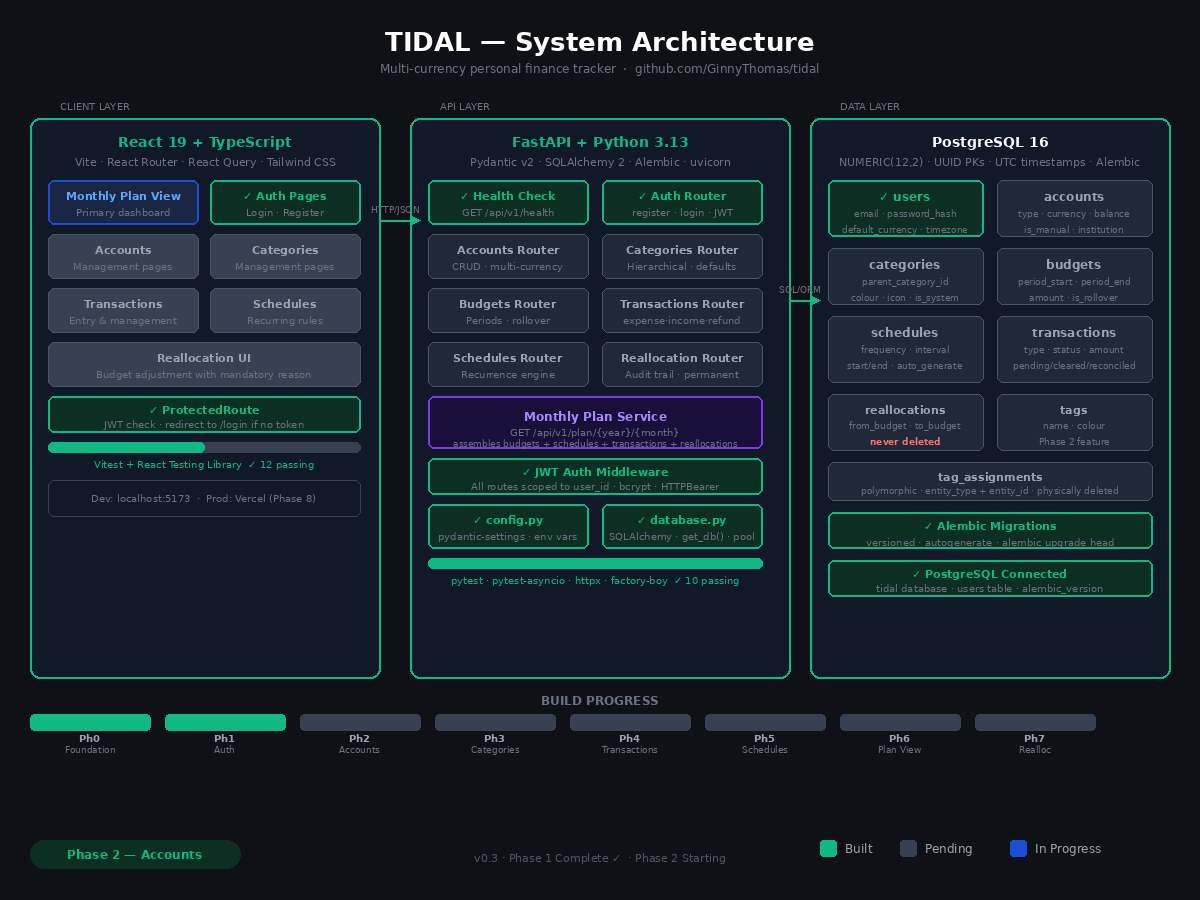
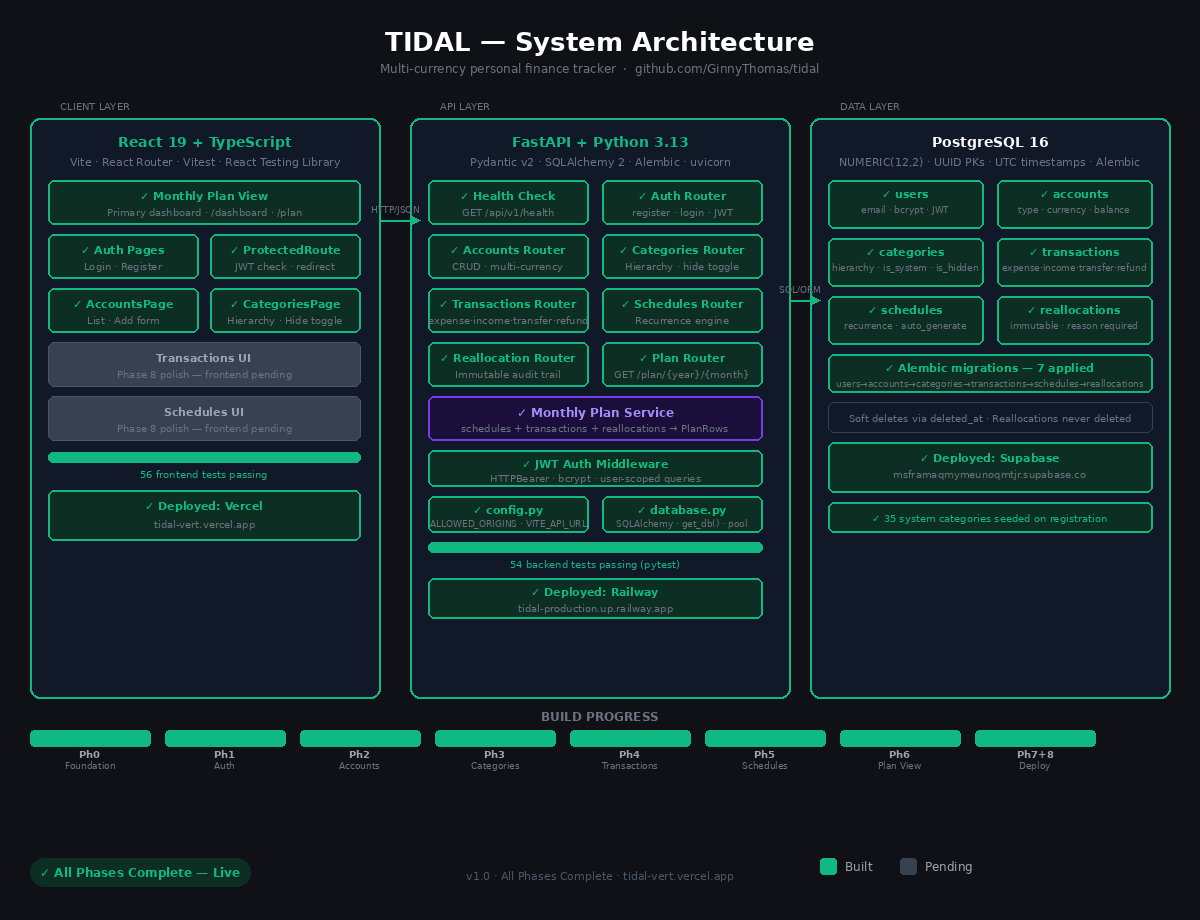
chore: Phase 8 complete — deployed to Railway + Vercel + Supabase, update docs

diff --git a/README.md b/README.md
@@ -2,6 +2,14 @@
 
 A multi-currency personal budget and finance tracker built with Python, FastAPI, PostgreSQL and React.
 
+
+## Live Demo
+
+- **App:** https://tidal-vert.vercel.app
+- **API:** https://tidal-production.up.railway.app
+- **API Docs:** https://tidal-production.up.railway.app/docs
+
+
 ## Structure
 
 ```
@@ -21,7 +29,7 @@ tidal/
 - ✅ Phase 5: Schedules (recurrence engine, auto-generate pending transactions)
 - ✅ Phase 6: Monthly Plan View (primary dashboard, plan vs actual)
 - ✅ Phase 7: Reallocation (budget adjustments, permanent audit trail)
-- ⏳ Phase 8: Polish & Deploy (Railway + Vercel + Supabase, demo account)
+- ✅ Phase 8: Deploy (Railway + Vercel + Supabase, demo account)
 
 ---
 
